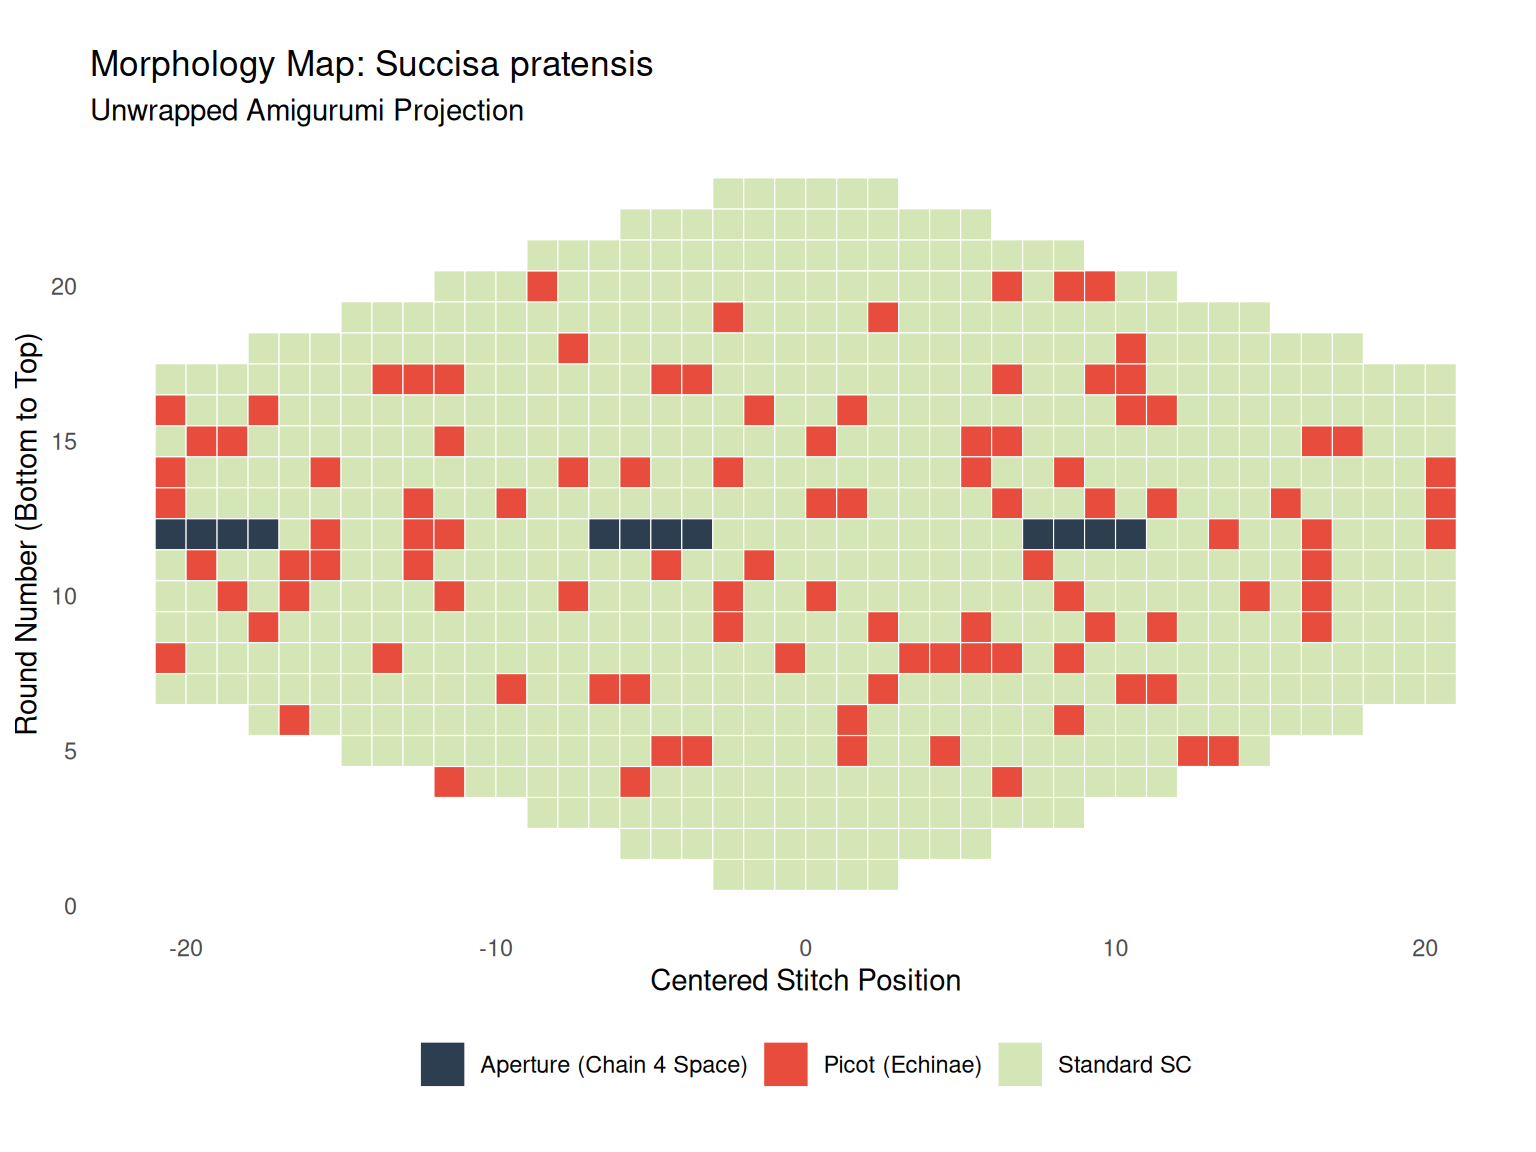
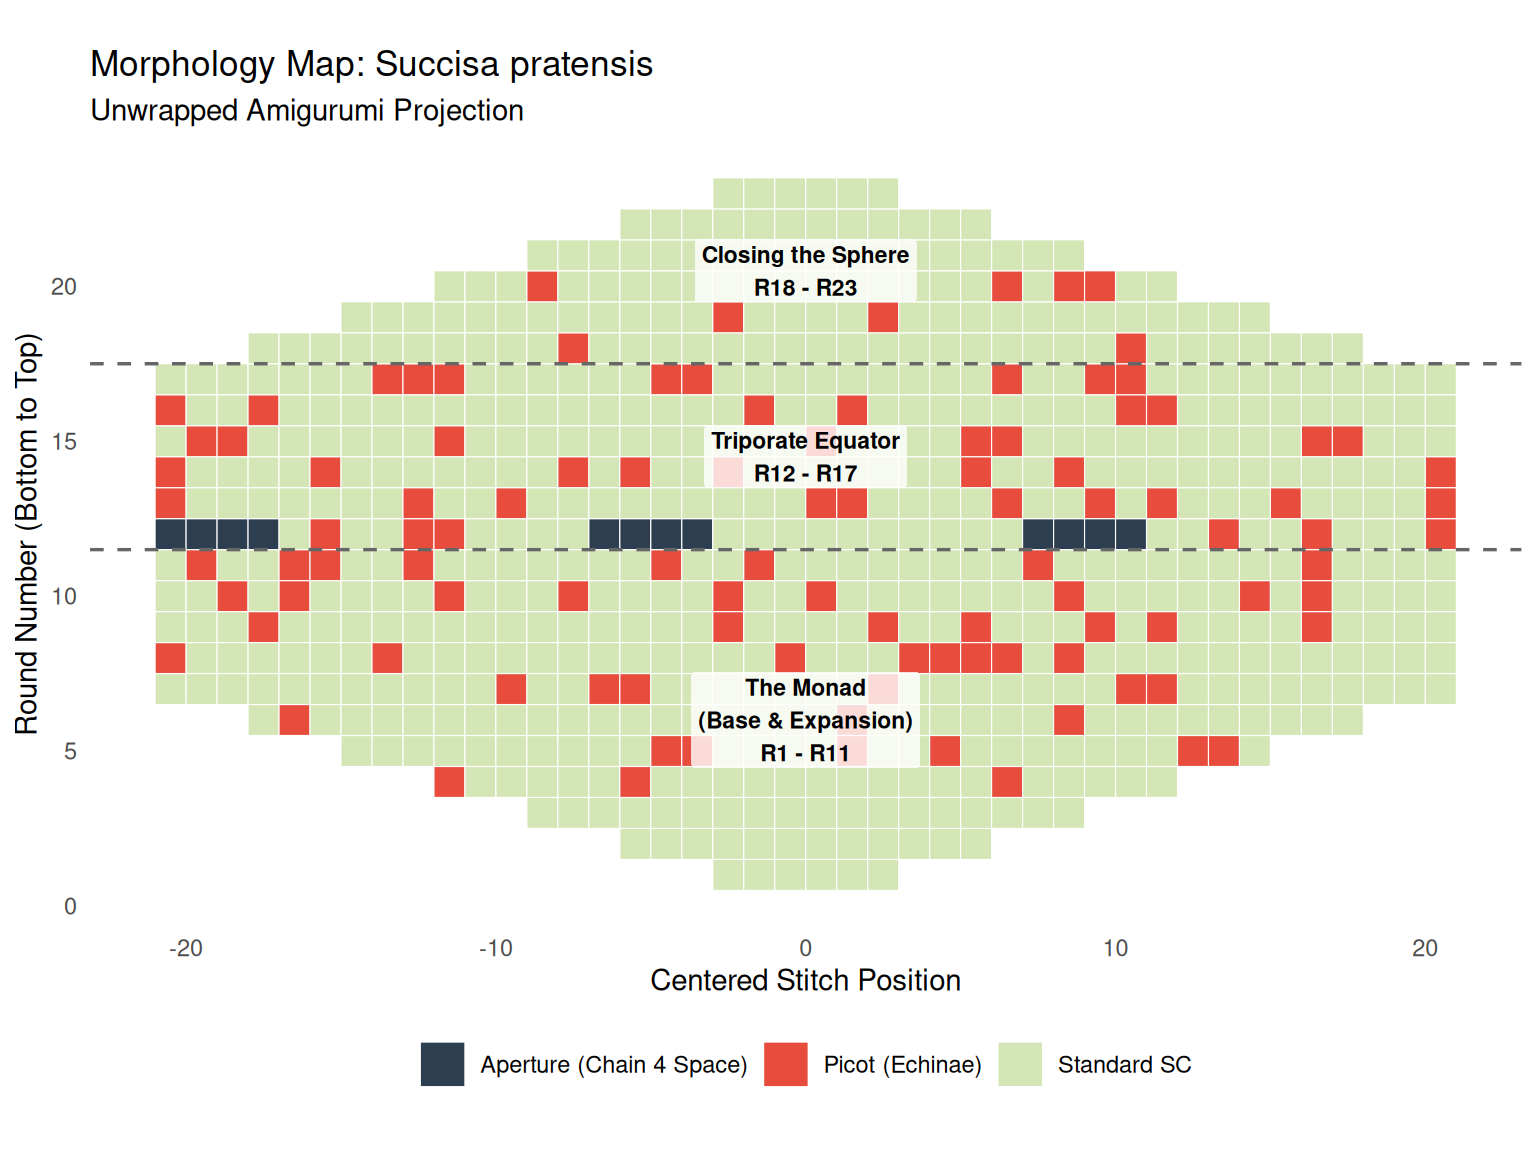
refactor: remove redundant vocabulary page and legacy project documentation from search index

Changed region(s): [[0.4375, 0.5625, 0.625, 0.6875], [0.4375, 0.1875, 0.625, 0.2812], [0.4375, 0.3438, 0.5938, 0.4375]]

diff --git a/docs/vocabulary.html b/docs/vocabulary.html
@@ -150,17 +150,41 @@ ul.task-list li input[type="checkbox"] {
 <p>Welcome to the glossary of terms used across our technical crochet patterns.</p>
 <section id="stitches-techniques" class="level3">
 <h3 class="anchored" data-anchor-id="stitches-techniques">Stitches &amp; Techniques</h3>
+<section id="sc-single-crochet" class="level4">
+<h4 class="anchored" data-anchor-id="sc-single-crochet"><strong><span id="sc">SC</span></strong> (Single Crochet)</h4>
+<p>The most basic crochet stitch, creating a tight and dense fabric. Used extensively in amigurumi to form solid, structured 3D shapes. <em><a href="https://www.youtube.com/results?search_query=how+to+single+crochet">Watch YouTube Tutorial</a></em></p>
+</section>
 <section id="hdc-half-double-crochet" class="level4">
 <h4 class="anchored" data-anchor-id="hdc-half-double-crochet"><strong><span id="hdc">HDC</span></strong> (Half Double Crochet)</h4>
-<p>A medium-height stitch that is taller than a single crochet but shorter than a double crochet. It creates a solid, slightly textured fabric that is perfect for underboob tops and bralettes as it balances coverage and drape.</p>
+<p>A medium-height stitch that is taller than a single crochet but shorter than a double crochet. It creates a solid, slightly textured fabric that is perfect for underboob tops and bralettes as it balances coverage and drape. <em><a href="https://www.youtube.com/results?search_query=how+to+half+double+crochet">Watch YouTube Tutorial</a></em></p>
+</section>
+<section id="dc-double-crochet" class="level4">
+<h4 class="anchored" data-anchor-id="dc-double-crochet"><strong><span id="dc">DC</span></strong> (Double Crochet)</h4>
+<p>A tall stitch that creates a looser, more flexible fabric compared to SC or HDC. Great for wearables like t-shirts where breathability and drape are desired. <em><a href="https://www.youtube.com/results?search_query=how+to+double+crochet">Watch YouTube Tutorial</a></em></p>
 </section>
 <section id="sl-st-slip-stitch" class="level4">
 <h4 class="anchored" data-anchor-id="sl-st-slip-stitch"><strong><span id="sl-st">Sl St</span></strong> (Slip Stitch)</h4>
-<p>A very flat, low-profile stitch. In these patterns, it is primarily used to move the yarn across the work without adding height, which creates clean, stepped decreases along the armpit edges.</p>
+<p>A very flat, low-profile stitch. In these patterns, it is primarily used to move the yarn across the work without adding height, which creates clean, stepped decreases along armpit edges, or to finish off a round in amigurumi. <em><a href="https://www.youtube.com/results?search_query=how+to+slip+stitch+crochet">Watch YouTube Tutorial</a></em></p>
 </section>
 <section id="ch-chain" class="level4">
 <h4 class="anchored" data-anchor-id="ch-chain"><strong><span id="ch">Ch</span></strong> (Chain)</h4>
-<p>The foundation of crochet. Chains are used to create the starting row, to add height at the beginning of a new row (a turning chain), or to bridge gaps in the fabric (like the center of a keyhole cutout).</p>
+<p>The foundation of crochet. Chains are used to create the starting row, to add height at the beginning of a new row (a turning chain), or to bridge gaps in the fabric (like the center of a keyhole cutout or apertures in pollen grains). <em><a href="https://www.youtube.com/results?search_query=how+to+chain+stitch+crochet">Watch YouTube Tutorial</a></em></p>
+</section>
+<section id="picot" class="level4">
+<h4 class="anchored" data-anchor-id="picot"><strong><span id="picot">Picot</span></strong></h4>
+<p>A textured, decorative stitch that creates a small bump or “spike” on the fabric. In our pollen grain pattern, this is used to simulate the botanical echinae (spines). Typically made by chaining 3 and slip stitching into the first chain. <em><a href="https://www.youtube.com/results?search_query=how+to+crochet+picot+stitch">Watch YouTube Tutorial</a></em></p>
+</section>
+<section id="inc-increase" class="level4">
+<h4 class="anchored" data-anchor-id="inc-increase"><strong><span id="inc">INC</span></strong> (Increase)</h4>
+<p>Working two stitches into the same stitch from the previous row or round. This adds to your total stitch count, expanding the width of the fabric or widening a 3D sphere. <em><a href="https://www.youtube.com/results?search_query=how+to+increase+crochet">Watch YouTube Tutorial</a></em></p>
+</section>
+<section id="dec-decrease-sc2tog" class="level4">
+<h4 class="anchored" data-anchor-id="dec-decrease-sc2tog"><strong><span id="dec">DEC</span></strong> (Decrease / SC2Tog)</h4>
+<p>Combining two stitches into one. In amigurumi, this is often done using an “Invisible Decrease” to prevent gaps, effectively narrowing the 3D shape. <em><a href="https://www.youtube.com/results?search_query=how+to+invisible+decrease+amigurumi">Watch YouTube Tutorial</a></em></p>
+</section>
+<section id="dc2tog-double-crochet-2-together" class="level4">
+<h4 class="anchored" data-anchor-id="dc2tog-double-crochet-2-together"><strong><span id="dc2tog">DC2Tog</span></strong> (Double Crochet 2 Together)</h4>
+<p>A decrease technique specifically for Double Crochet. It combines two stitches into one, used for shaping armholes or necklines in garments. <em><a href="https://www.youtube.com/results?search_query=how+to+dc2tog">Watch YouTube Tutorial</a></em></p>
 </section>
 <section id="st-sts-stitch-stitches" class="level4">
 <h4 class="anchored" data-anchor-id="st-sts-stitch-stitches"><strong><span id="st">St / Sts</span></strong> (Stitch / Stitches)</h4>